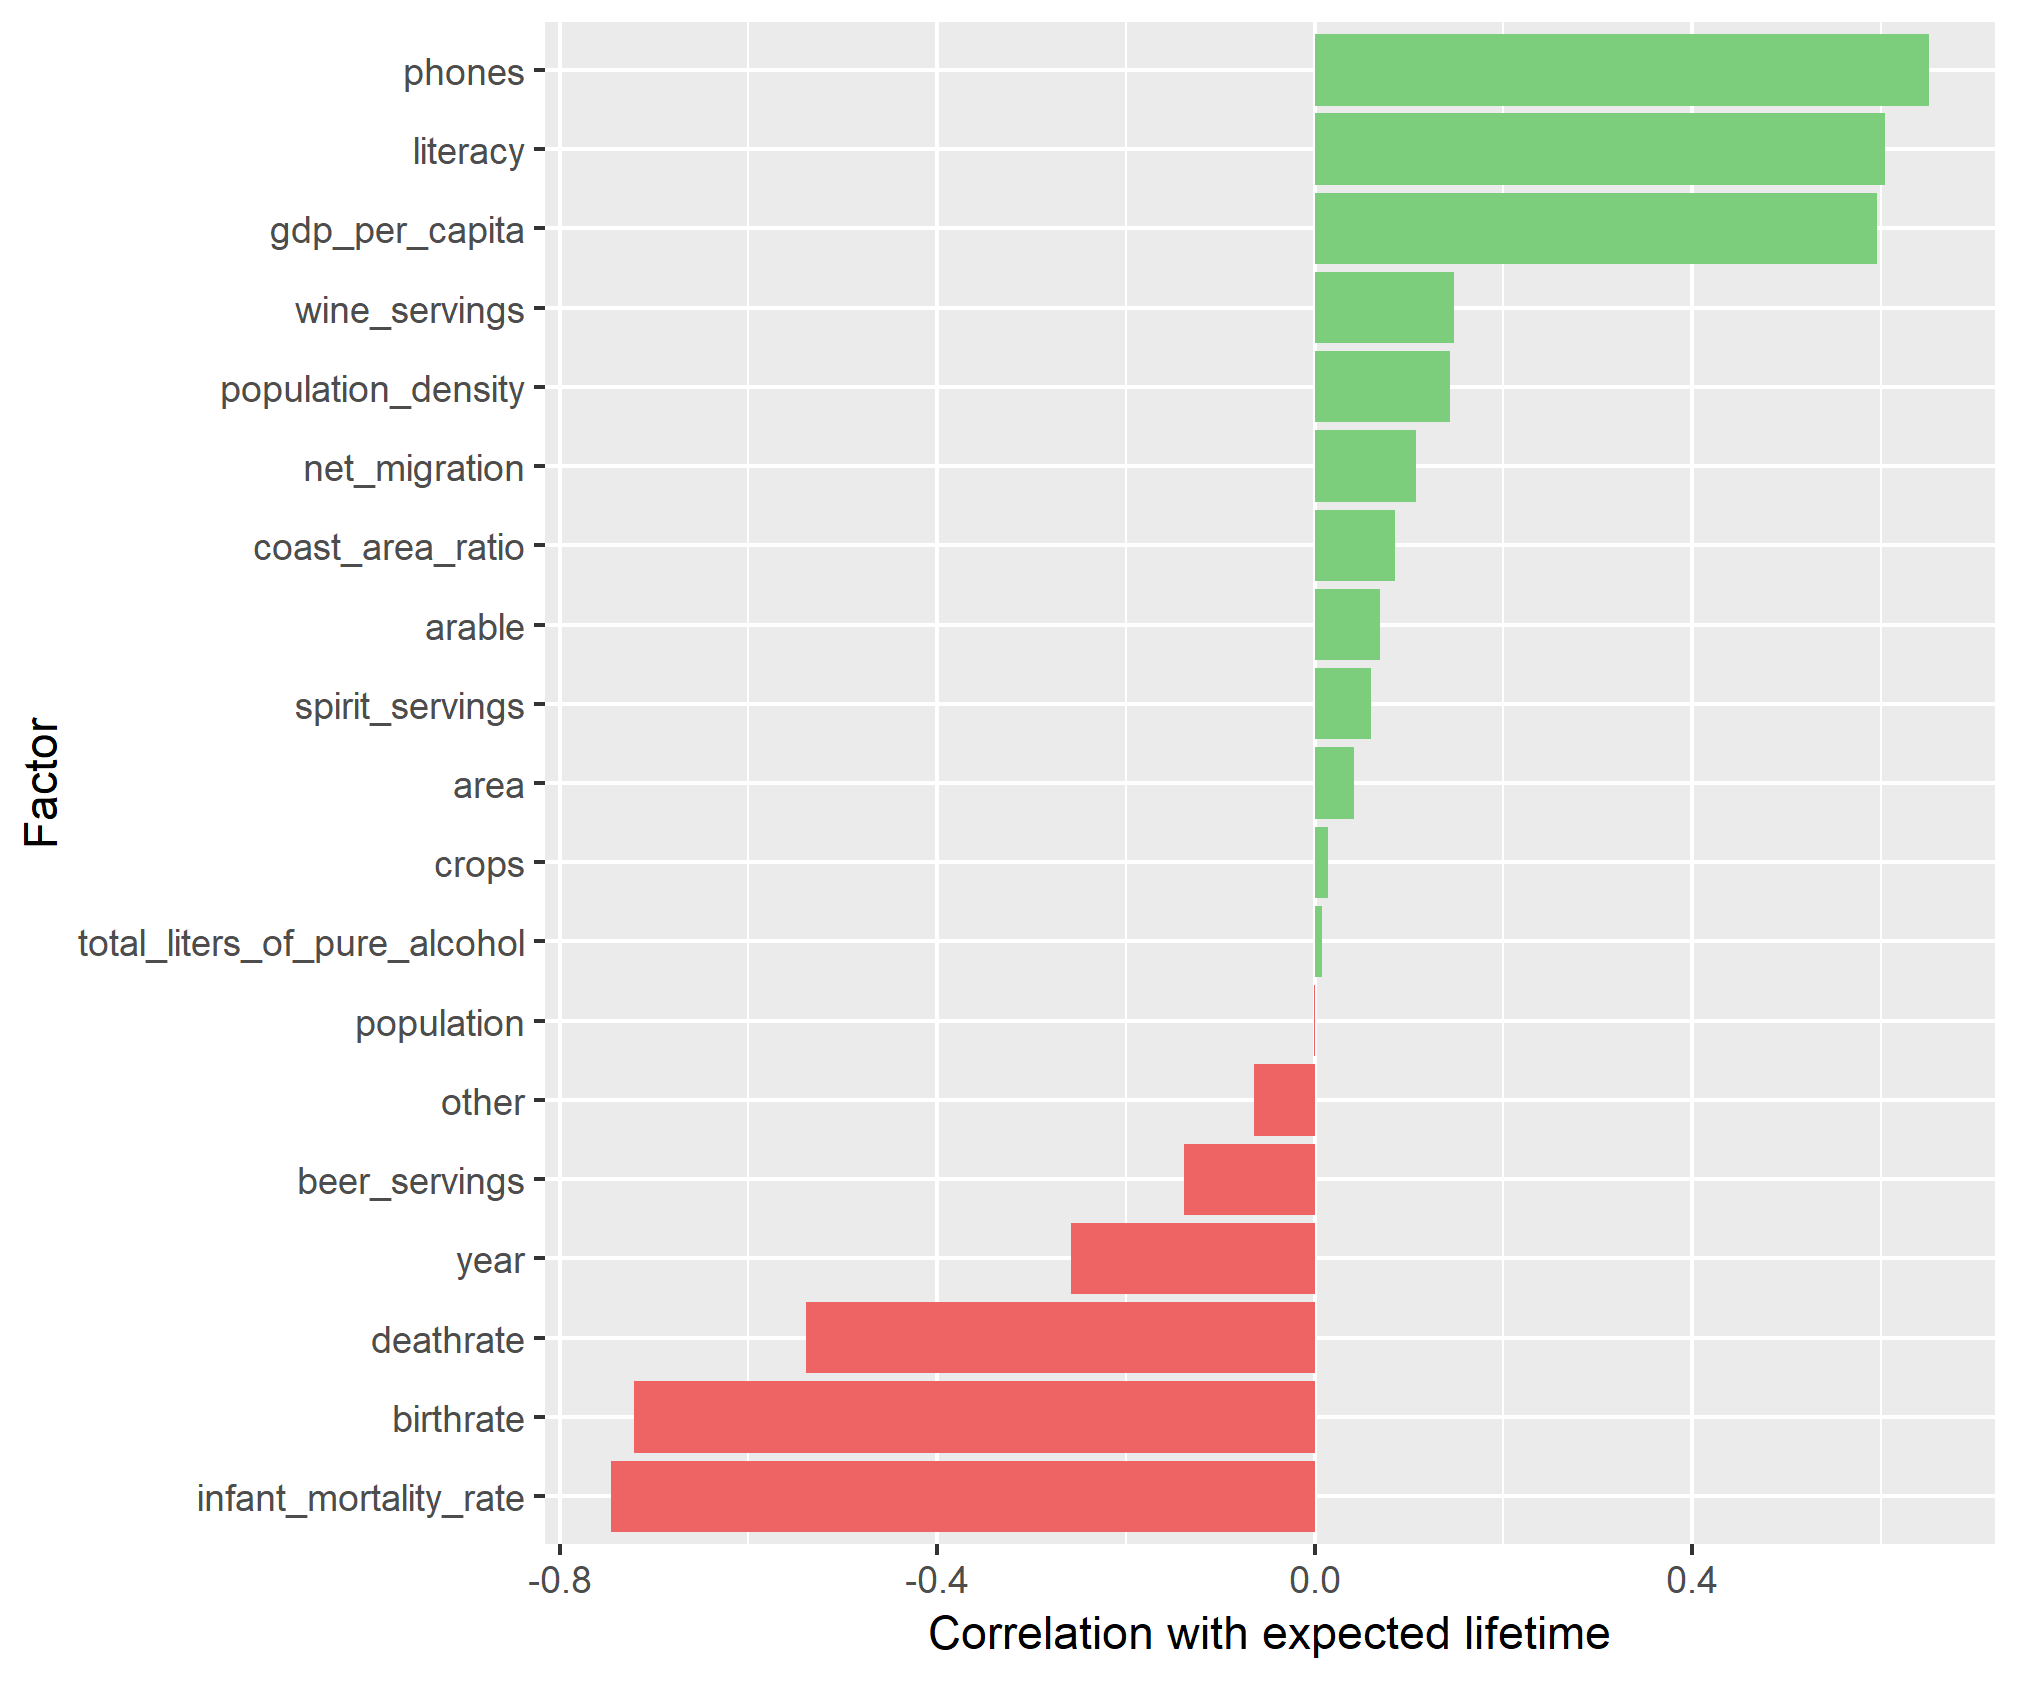
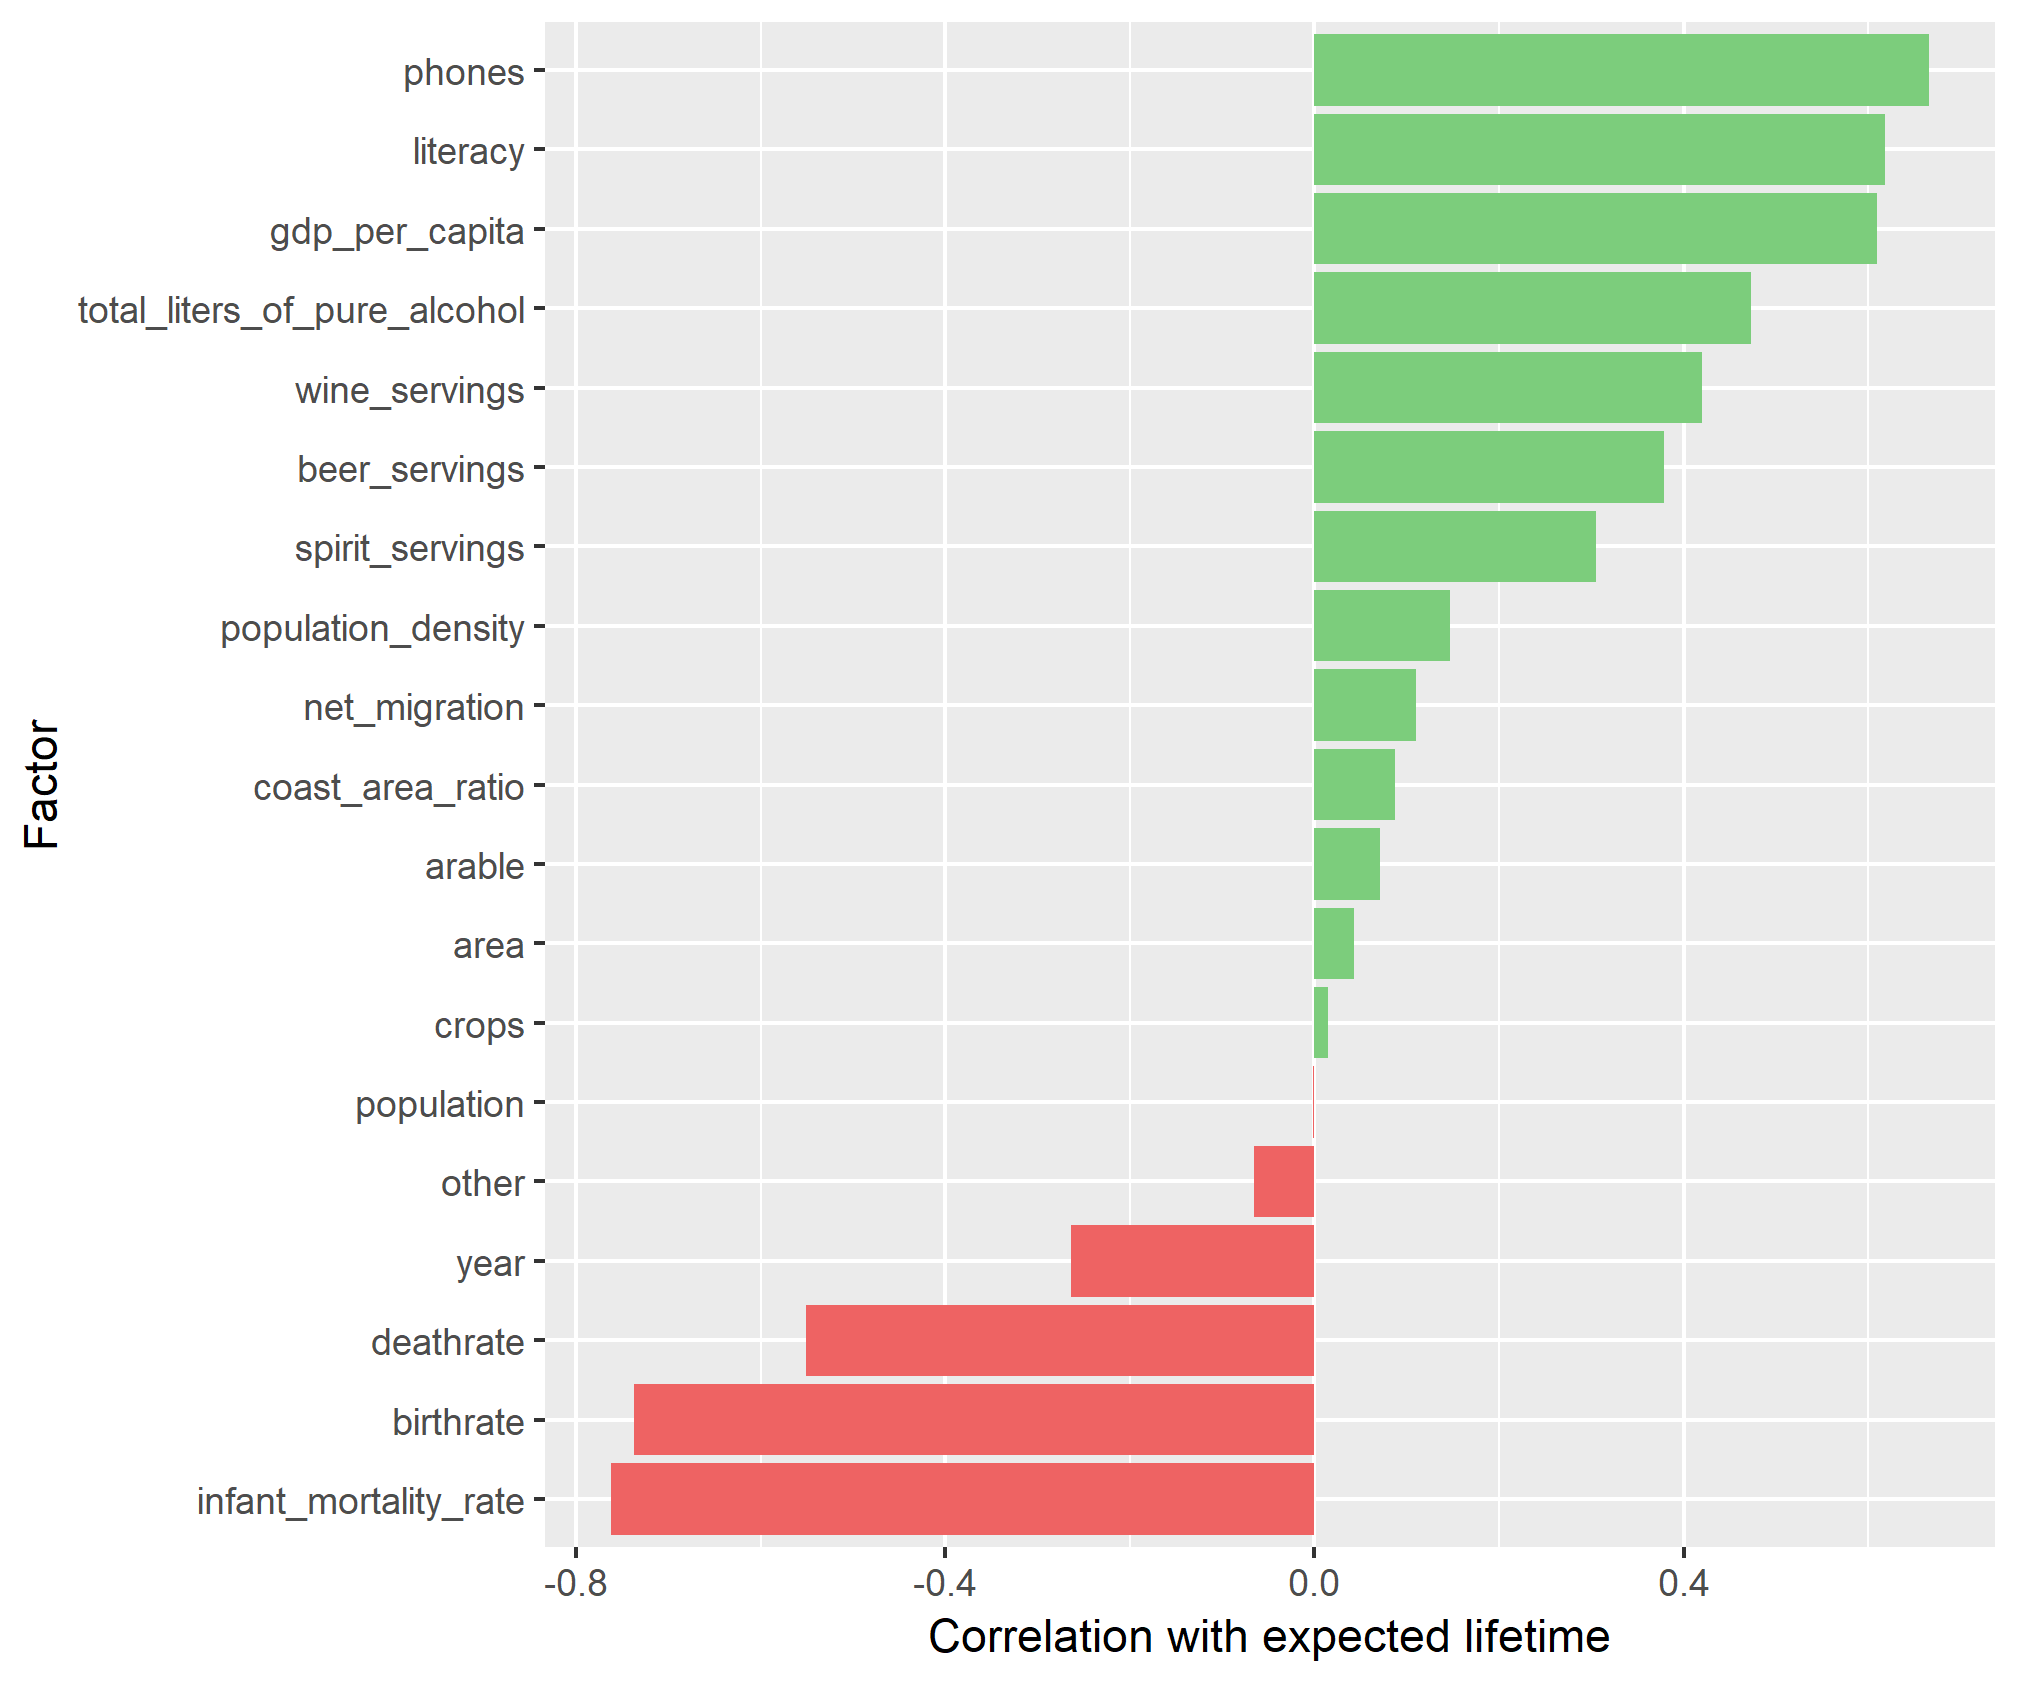
Revisit analysis.
The order of mutate_if and mutate_each for Drinks.csv skewed the analysis.

diff --git a/README.md b/README.md
@@ -8,6 +8,7 @@ This analysis was created as the final assignment for *Mastering the Process of 
 
 - [Data preparation](#data-preparation)
 - [Analysis](#analysis)
+- [Summary](#summary)
 
 ## Data Preparation
 
@@ -17,14 +18,14 @@ The following packages were used to perform data wrangling: `dplyr`, `tibble`, `
 
 - **Drinks.csv**
 
-  - A new variable called `total_liters_of_pure_alcohol` was created based on alcohol consumption (`?`s converted to `NA`s) and the corresponding ounces and alcohol levels.
+  - A new variable called `total_liters_of_pure_alcohol` was created based on alcohol consumption (`?`s treated as `NA`s) and the corresponding ounces and alcohol levels. Ounces were converted to liters.
   - Rows with `NA`s were omitted.
 
 - **LifeExpectancy.csv**
 
   - I omitted the records without information regarding `income_group` and transformed the values to a factor with readable levels (removed the `_income` suffix).
   - I added 60 to the `Life expectancy at age 60 (years)` metric to have all three life expectancy metrics on the same level.
-  - Out of the three metrics I created a fourth one, called `avg_life_expectancy` that takes the mean of the values per country and sex.
+  - Out of the three metrics regarding expected lifetime, I created a fourth one, called `avg_life_expectancy` that takes the mean of the values.
 
 - **CountriesOfTheWorld.xls**
 
@@ -51,7 +52,9 @@ res %>%
   filter(rowname == "total_liters_of_pure_alcohol")
 ```
 
-The correlation between life expectancy and total liters of pure alcohol consumed is very low (0.00839). It seems like there's little to no correlaction between the two variables based on the available data.
+The correlation between life expectancy and total liters of pure alcohol consumed is relatively high (`0.473`). This suggests that the more alcohol someone consumes, the longer they might live. While the positive correlation is clear, I wouldn't necessarily agree with the hypothesis, as this would mean that drinking more can lead to longer lifetime.
+
+But are there any other factors that are highly correlated with life expectancy?
 
 ### Factors that are highly correlated to the expected lifetime
 
@@ -59,7 +62,7 @@ The correlation between life expectancy and total liters of pure alcohol consume
 
 We can draw some conclusions based on this chart:
 
-- Neither one of the alcohol consumptions seem to have a large impact on the expected lifetime, but while drinking more wine (`wine_servings`) or spirits (`spirit_servings`) have a positive effect, drinking beer (`beer_servings`) shortens life expectancy. This coincides with traditional home remedies, a glass of wine is good for circulation, while a shot of *pálinka* (Hungarian spirit) is said to cure all illnesses. :wine_glass: 
+- All three of the alcohol servings seem to have a large, positive impact on the expected lifetime. This makes sense considering these three make up the value for `total_liters_of_pure_alcohol`, but the causation is questionable here as well. Although some of it would coincide with traditional home remedies, a glass of wine is good for circulation, while a shot of *pálinka* (Hungarian spirit) is said to cure all illnesses.
 - `phones` has the highest positive correlation with life expectancy, meaning if there are more phones in a country, people will live longer. This makes sense since citizens of wealthier countries typically have more phones than those in poor ones.
 - `literacy` and `gdp_per_capita` are usually also associated with wealthier countries where due to the better circumstances, people tend to live longer.
 - The three highest negatively correlated factors also make a lot of sense:
@@ -67,3 +70,12 @@ We can draw some conclusions based on this chart:
   - `birthrate` is the total number of live births per 1000 in a year, and if this number is smaller, there are more deaths, which results in lower expected lifetime.
   - `infant_mortality_rate` is the death of young children under the age of 1, where the same principle applies as it did for `birthrate`.
 - One interesting thing to see is the `year` variable's negative correlation with life expectancy, which is alarming. This means that life expectancy was higher in earlier readings of the metric, while lately it has been in decline.
+
+## Summary
+
+Overall we can say that while it seems like alcohol consumption has a relatively high positive effect on life expectancy, common sense dictates that this is not the case. Variables where higher values are usually associated with wealthier countries (such as `phones`, `literacy` and `gdp_per_capita`) are seemingly more important and are positively correlated with life expectancy. The same can be said for the opposite direction, higher `deathrate`, `birthrate` and `infant_mortality_rate` are typically connected to poor countries. However, deciding whether this assumption is correct is not part of this analysis.
+
+**Suggestions:**
+
+- Analyze whether regions and income groups have the assumed effect on life expectancy.
+- Look into why expected lifetime seems to be in decline as years go by, and whether it's due to the same reasons as for the point above.
